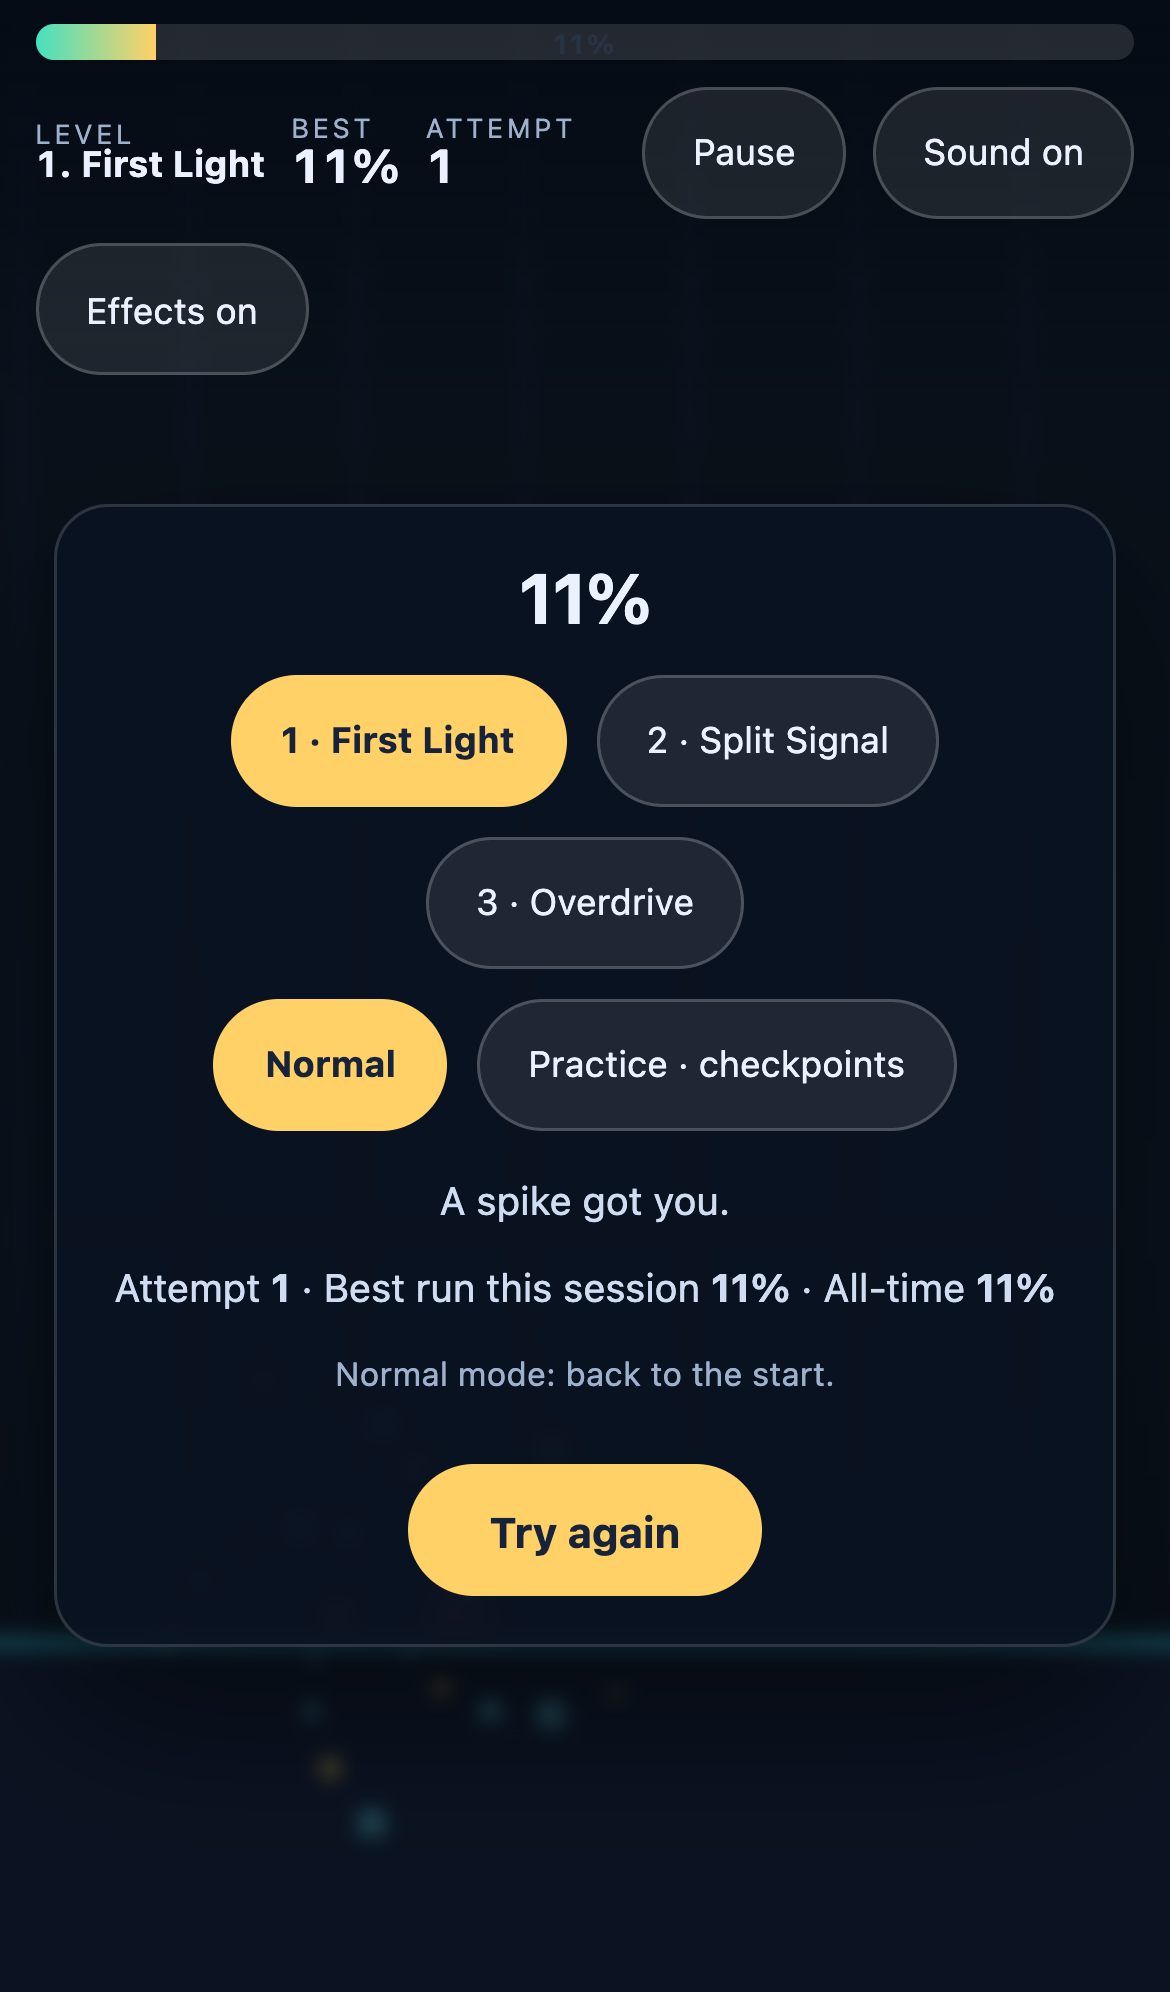
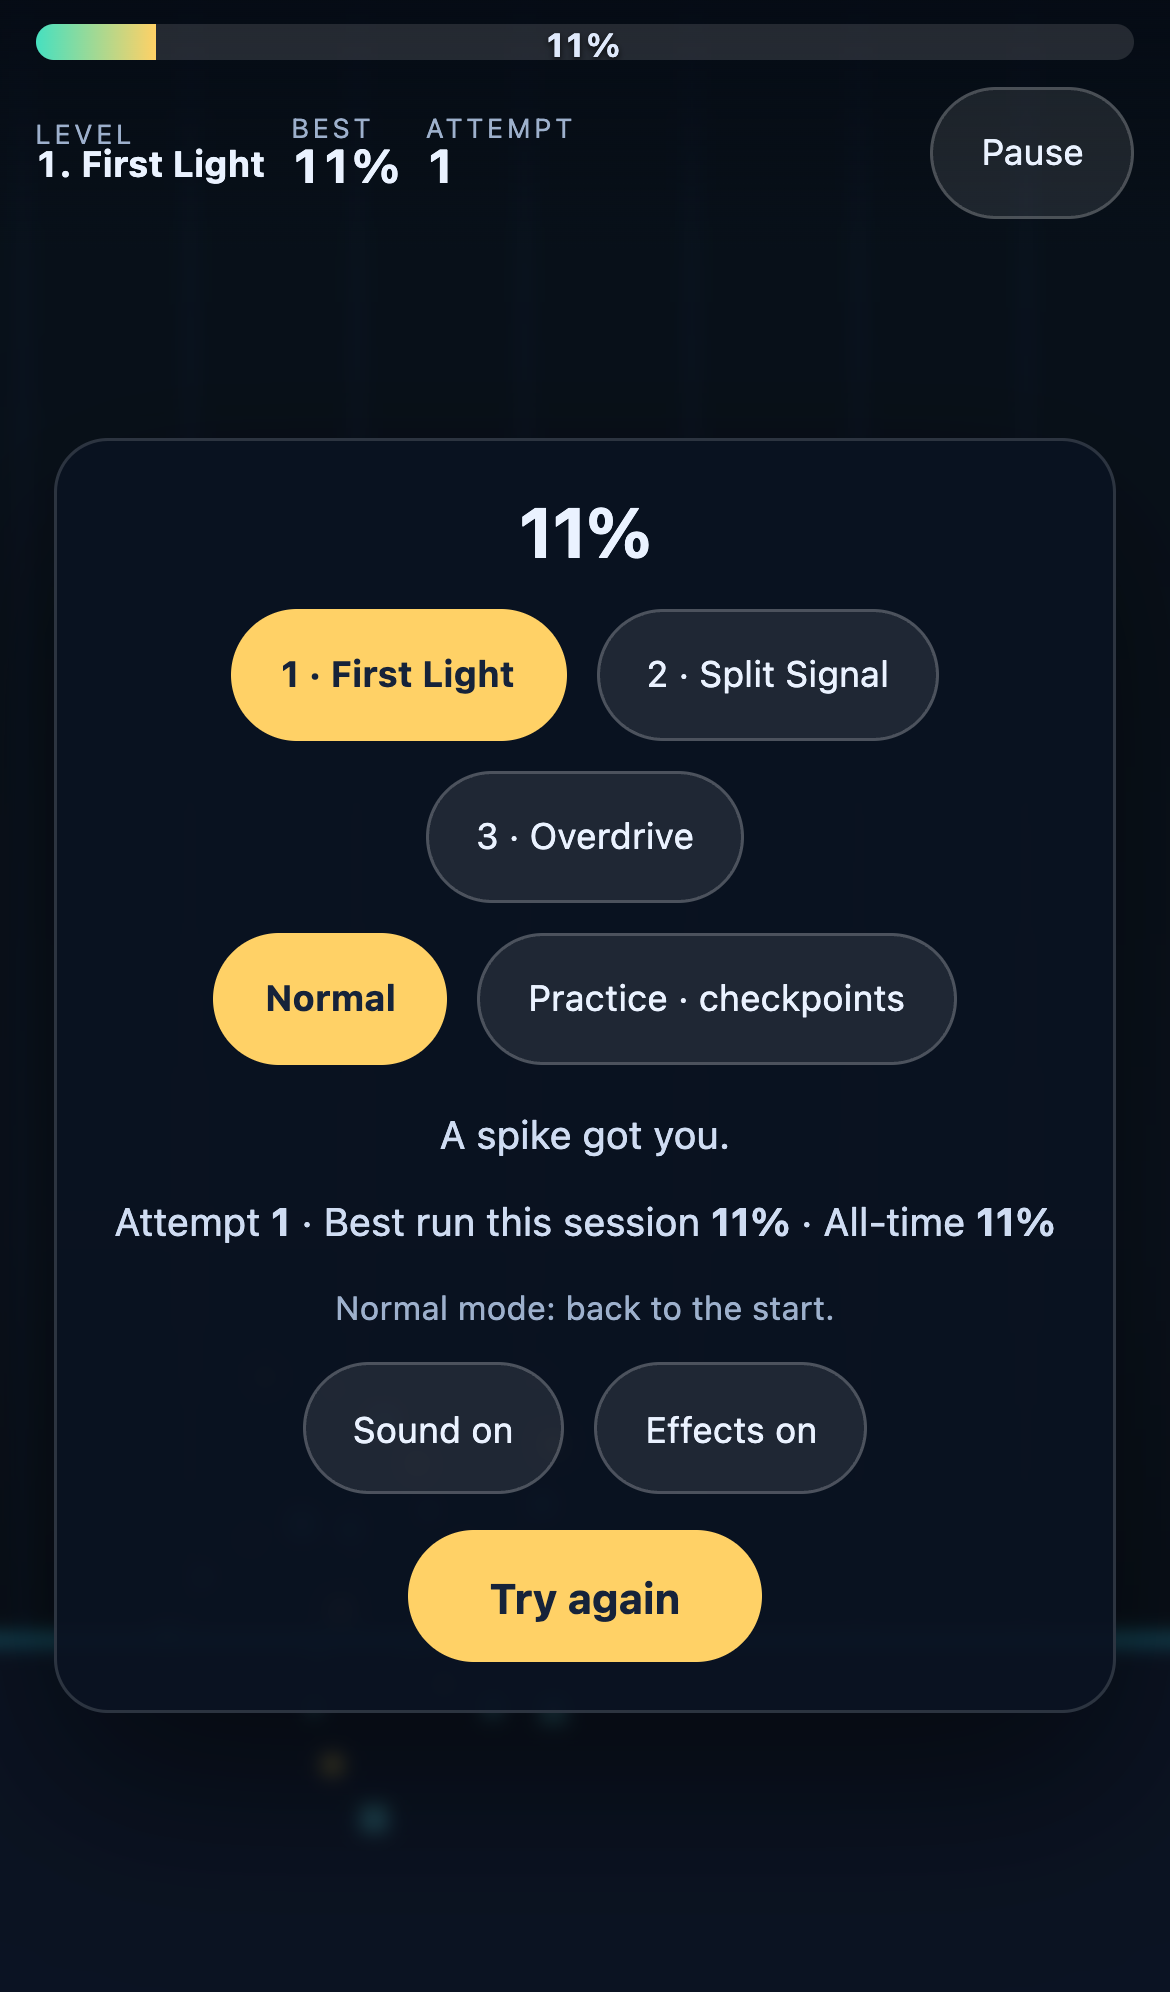
Mobile: keep the HUD to one row and make the progress text readable
Caught by looking at a 360x640 screenshot, not by a passing assertion: with
three 44px buttons the HUD wrapped to three rows, 134px of a 640px screen,
and left Sound and Effects floating over the playfield near the cube.

Sound and Effects are settings rather than in-run controls, so they move
into the overlay panel, reached through Pause. Only Pause stays on the
playfield. HUD height at 360x640: 134px -> 82px, one row.

Progress text was 9px with mix-blend-mode:screen, which left it invisible
against the unfilled track. Now 11px light text with a shadow.

64/64 browser smoke checks still pass.

diff --git a/src/style.css b/src/style.css
@@ -46,6 +46,9 @@ html, body {
   padding: max(8px, env(safe-area-inset-top)) clamp(10px, 3vw, 22px) 10px;
   background: linear-gradient(180deg, rgba(5, 10, 20, 0.78), rgba(5, 10, 20, 0));
   pointer-events: none;
+  /* One row at 360px. Sound and Effects are settings and live in the panel,
+     reached through Pause; only the in-run control stays on the playfield. */
+  flex-wrap: wrap;
   /* Above the overlay: pause and sound stay reachable while a panel is up. */
   z-index: 3;
 }
@@ -70,11 +73,13 @@ html, body {
   inset: 0;
   display: grid;
   place-items: center;
-  font-size: 9px;
+  /* 9px + screen blending was unreadable against the unfilled track on a
+     phone; plain light text on the dark track holds up at 360px. */
+  font-size: 11px;
   font-weight: 700;
   letter-spacing: 0.08em;
-  color: #06111f;
-  mix-blend-mode: screen;
+  color: #dfe9fb;
+  text-shadow: 0 1px 2px rgba(0, 0, 0, 0.75);
 }
 
 .hud-group { display: flex; flex-direction: column; line-height: 1.05; }
@@ -154,3 +159,5 @@ h1 { margin: 0 0 12px; font-size: clamp(22px, 6vw, 36px); letter-spacing: -0.01e
   #progress-fill { transition: none; }
   #overlay { backdrop-filter: none; }
 }
+
+.settings { margin-top: 4px; }

diff --git a/index.html b/index.html
@@ -20,8 +20,6 @@
       <div class="hud-group"><span class="label">Attempt</span><span id="attempts" class="value">0</span></div>
       <div class="hud-spacer"></div>
       <button id="pause-btn" type="button">Pause</button>
-      <button id="mute-btn" type="button" aria-pressed="false">Sound on</button>
-      <button id="motion-btn" type="button" aria-pressed="false" title="Reduce shake, flashes and debris">Effects on</button>
     </header>
 
     <div id="overlay">
@@ -39,6 +37,10 @@
           </div>
         </div>
         <div id="overlay-body"></div>
+        <div class="row settings" role="group" aria-label="Settings">
+          <button id="mute-btn" type="button" aria-pressed="false">Sound on</button>
+          <button id="motion-btn" type="button" aria-pressed="false" title="Reduce shake, flashes and debris">Effects on</button>
+        </div>
         <button id="overlay-action" type="button">Start</button>
       </div>
     </div>
